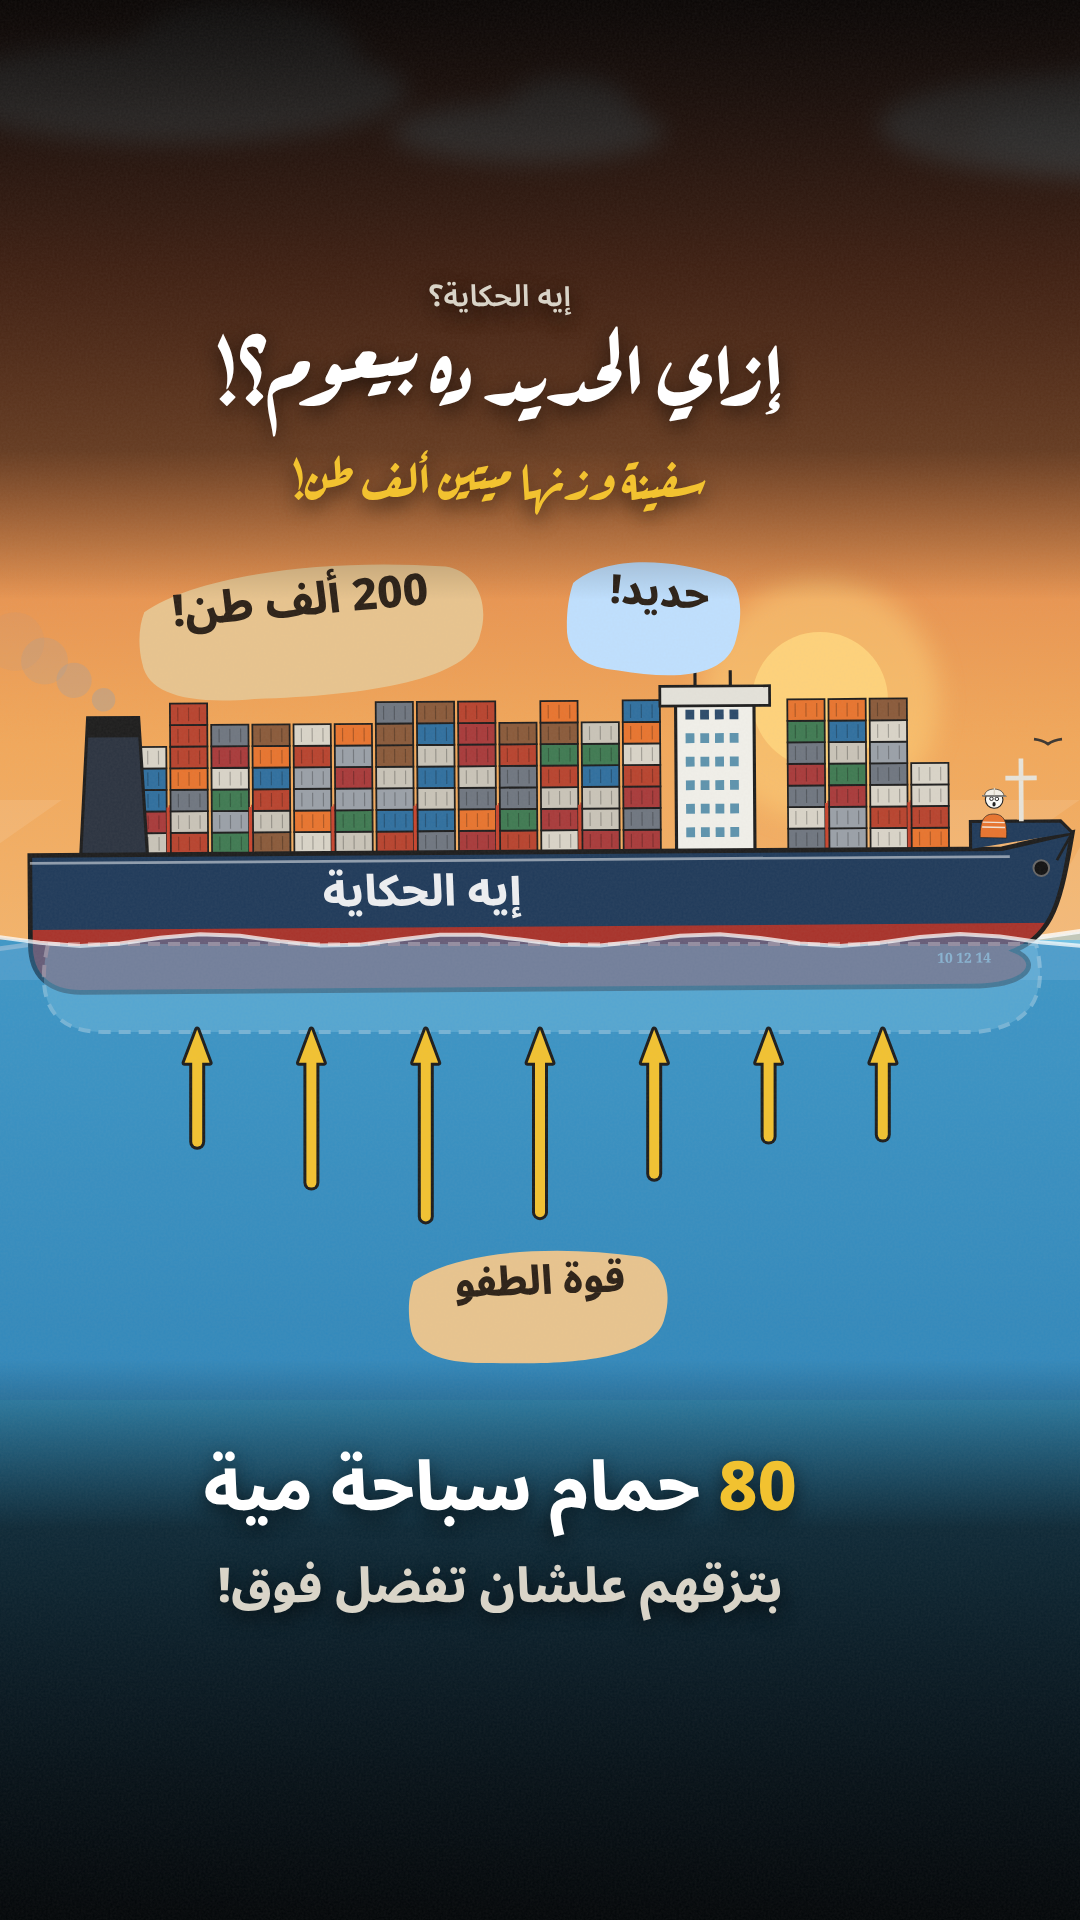
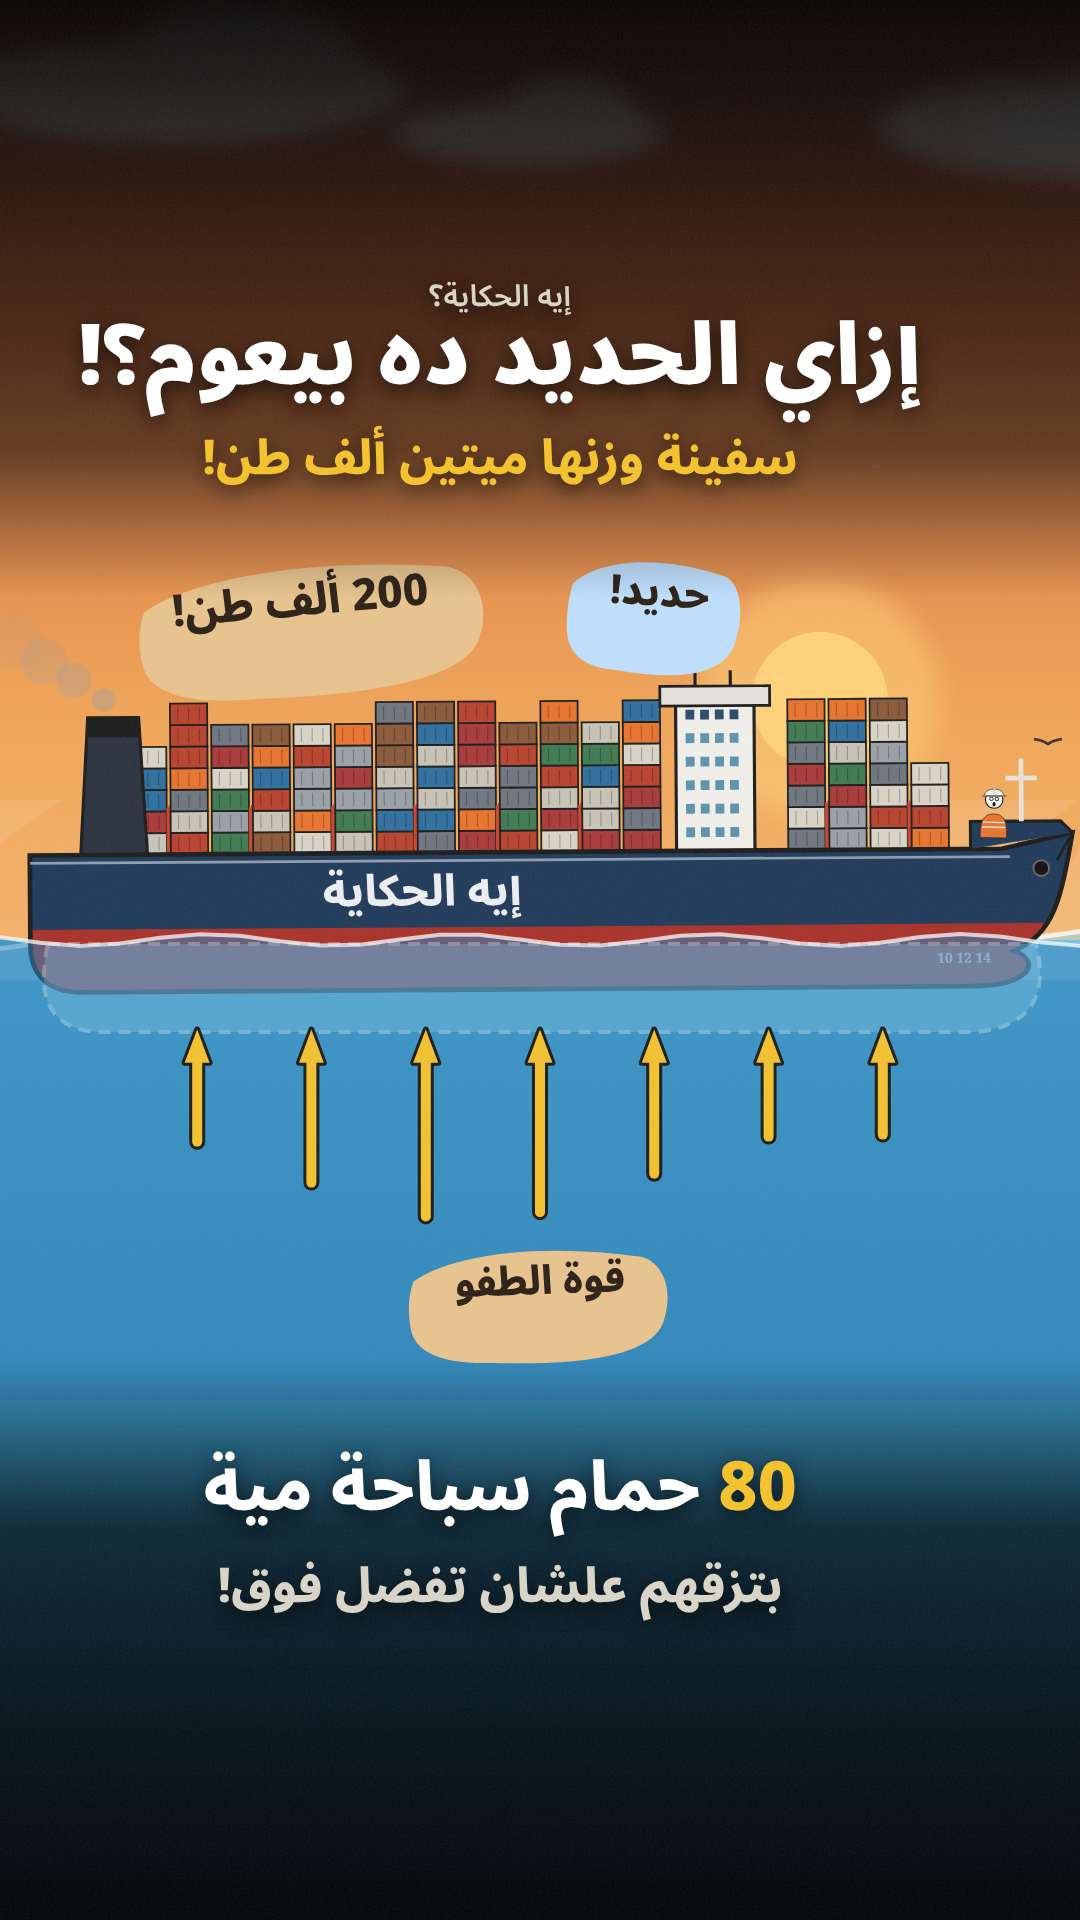
Container ship cover: title in Noto Sans Arabic; the skill keeps Noto for cover titles
Claude-Session: https://claude.ai/code/session_012dTfAniKuQkAFVCkp63p6x

Changed region(s): [[0.0611, 0.1562, 0.8556, 0.2812]]

diff --git a/brand/eh-elhekaya/cover-container-ship-tiktok.html b/brand/eh-elhekaya/cover-container-ship-tiktok.html
@@ -1,6 +1,6 @@
 <!doctype html>
 <html lang="ar" dir="rtl"><head><meta charset="utf-8"><title>TikTok cover — container ship</title>
-<link href="https://fonts.googleapis.com/css2?family=Aref+Ruqaa:wght@700&family=Noto+Sans+Arabic:wght@600;800&family=Noto+Serif:wght@700&display=swap" rel="stylesheet">
+<link href="https://fonts.googleapis.com/css2?family=Aref+Ruqaa:wght@700&family=Noto+Sans+Arabic:wght@600;800;900&family=Noto+Serif:wght@700&display=swap" rel="stylesheet">
 <style>
   /* the reel cover, full bleed at TikTok's 1080×1920 (540×960 at 2x): the picture fills the frame, the titles sit on
      dark fades. Everything that matters stays inside the 3:4 profile-grid crop (y 120–840) and away from the right-hand buttons. */
@@ -13,8 +13,8 @@
 <div class="cover">
   <svg id="art" viewBox="0 0 540 960"></svg>
   <p class="t" style="top:132px;font:600 15px 'Noto Sans Arabic';color:#d9d4c8">إيه الحكاية؟</p>
-  <p class="t" style="top:156px;font:700 44px/1.2 'Aref Ruqaa',serif;color:#fff">إزاي الحديد ده بيعوم؟!</p>
-  <p class="t" style="top:222px;font:700 26px/1.2 'Aref Ruqaa',serif;color:#f2c230">سفينة وزنها ميتين ألف طن!</p>
+  <p class="t" style="top:154px;font:900 42px/1.2 'Noto Sans Arabic';color:#fff">إزاي الحديد ده بيعوم؟!</p>
+  <p class="t" style="top:214px;font:800 24px/1.3 'Noto Sans Arabic';color:#f2c230">سفينة وزنها ميتين ألف طن!</p>
   <p class="t" style="top:722px;font:800 34px/1.35 'Noto Sans Arabic';color:#fff"><span style="color:#f2c230">80</span> حمام سباحة مية<br><span style="font-size:24px;color:#d9d4c8">بتزقهم علشان تفضل فوق!</span></p>
 </div>
 <svg width="0" height="0" style="position:absolute" aria-hidden="true"><defs>

diff --git a/.claude/skills/animation/SKILL.md b/.claude/skills/animation/SKILL.md
@@ -167,8 +167,8 @@ code. Keep mix.wav and the mp4 in the scratchpad, not in the repo.
     (load `timing.js` and `cartoon/scenes.js`), with the main object big in the middle, a hard-hat character for scale and
     one or two brush tags with the key numbers, plus film grain;
   - dark fades top (`fadeT`, 0–300) and bottom (`fadeB`, 680–960) so the text reads;
-  - text: «إيه الحكاية؟» small (Noto 15px, #d9d4c8, top 132), the hook in Aref Ruqaa 44px white (top 156), a yellow Ruqaa
-    26px sub-title (top 222), and the punch line at top 722 in Noto 34px with the number in yellow and a smaller grey second line;
+  - text: «إيه الحكاية؟» small (Noto 15px, #d9d4c8, top 132), the hook in **Noto Sans Arabic 900, 42px** white (top 154), a
+    yellow Noto 800 24px sub-title (top 214) (the user asked for Noto on the cover title, not Ruqaa; load weight 900), and the punch line at top 722 in Noto 34px with the number in yellow and a smaller grey second line;
   - everything that matters stays inside the 3:4 profile-grid crop (y 120–840) and away from TikTok's right-hand buttons
     (text box `left: 24px; right: 64px`).
   Shoot it with `node videos/tools/cover.js $PWD/<html> $PWD/brand/eh-elhekaya/tiktok-cover-<slug>-1080x1920.png`, look at
